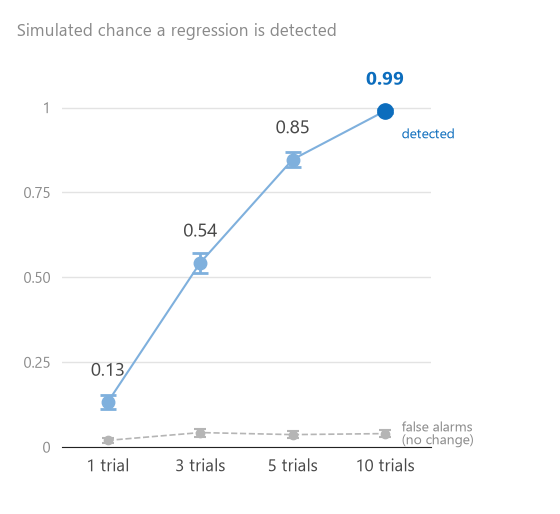
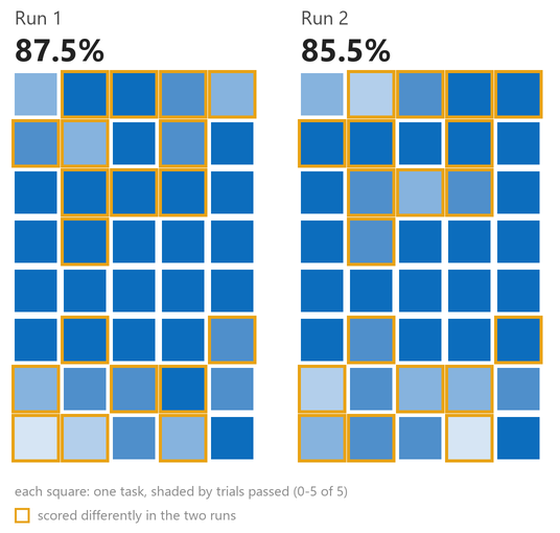
Use the real-model A/A run as the realdelta cover and card image
Same model, same prompt, same 40 tasks run twice: 87.5% then 85.5%, and
19 tasks scored differently. Drawn from the pre-registered run's a1/a2
result files. The planner chart the article shows moves to
assets/figures so the write-up keeps its figure.

Claude-Session: https://claude.ai/code/session_01Xkch4mJ7qtnqVWJG4AWmFj

diff --git a/realdelta.html b/realdelta.html
@@ -15,7 +15,7 @@
 <meta property="og:image" content="https://althea-yuquan-chen.github.io/assets/og/realdelta.png">
 <meta property="og:image:width" content="1200">
 <meta property="og:image:height" content="627">
-<meta property="og:image:alt" content="Simulated chance of detecting 3 broken cases out of 40: 0.13 with 1 trial per case, 0.54 with 3, 0.85 with 5 and 0.99 with 10, while false alarms stay between 0.020 and 0.043.">
+<meta property="og:image:alt" content="Same model, same prompt, same 40 tasks run twice: 87.5% then 85.5%, and 19 of the 40 tasks scored differently between the two runs.">
 <meta name="twitter:card" content="summary_large_image">
 <style>
   :root{
@@ -84,7 +84,7 @@
   <p>Run the same agent twice and some cases flip. In a simulated suite of 40 cases that pass about 95% of the time, run 5 times each, two runs of the <em>unchanged</em> agent differed by 2 points or more in 184 of 500 pairs (36.8%); a 4-point move sat at the 95th percentile of pure noise. realdelta gives pass-rate intervals for repeated trials, either for this fixed suite or for a population of cases like it, a paired comparison that reports a change as detected when its interval excludes zero, and a planner that simulates how many trials per case a given regression needs.</p>
 
   <figure>
-    <img src="assets/og/realdelta.png" width="1200" height="627" alt="Simulated chance of detecting 3 broken cases out of 40: 0.13 with 1 trial per case, 0.54 with 3, 0.85 with 5 and 0.99 with 10, while false alarms stay between 0.020 and 0.043.">
+    <img src="assets/figures/realdelta-planner.png" width="1200" height="627" alt="Simulated chance of detecting 3 broken cases out of 40: 0.13 with 1 trial per case, 0.54 with 3, 0.85 with 5 and 0.99 with 10, while false alarms stay between 0.020 and 0.043.">
     <figcaption>The planner's answer for a 40-case suite where 3 cases break: one trial per case catches it 13% of the time, five trials 85%, ten 99%. A simulation result for this setting, not a calibration claim: no gated calibration row has cases breaking outright, and 1 trial per case is also below the gated range.</figcaption>
   </figure>
 

diff --git a/index.html b/index.html
@@ -521,7 +521,7 @@
 
       <div class="proj-card">
         <figure class="proj-media">
-          <img src="assets/cards/realdelta.png" width="560" height="514" loading="lazy" alt="Simulated chance of detecting 3 broken cases out of 40: 0.13 with 1 trial per case, 0.54 with 3, 0.85 with 5 and 0.99 with 10, while false alarms stay between 0.020 and 0.043.">
+          <img src="assets/cards/realdelta.png" width="560" height="533" loading="lazy" alt="Two grids of 40 tasks from the same model and prompt run twice, 87.5% and 85.5% passing, with the 19 tasks that scored differently between the runs outlined.">
         </figure>
         <div class="proj-body">
           <h3>realdelta: is that eval change real, or noise?</h3>
